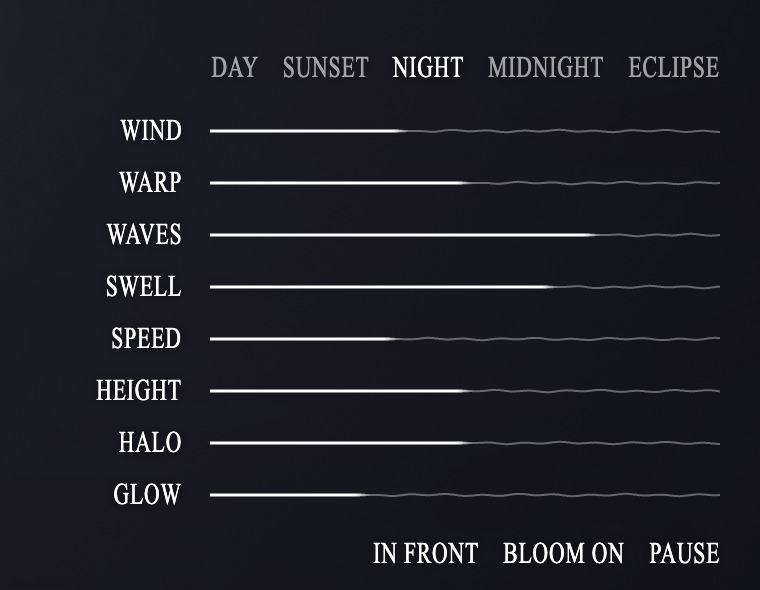
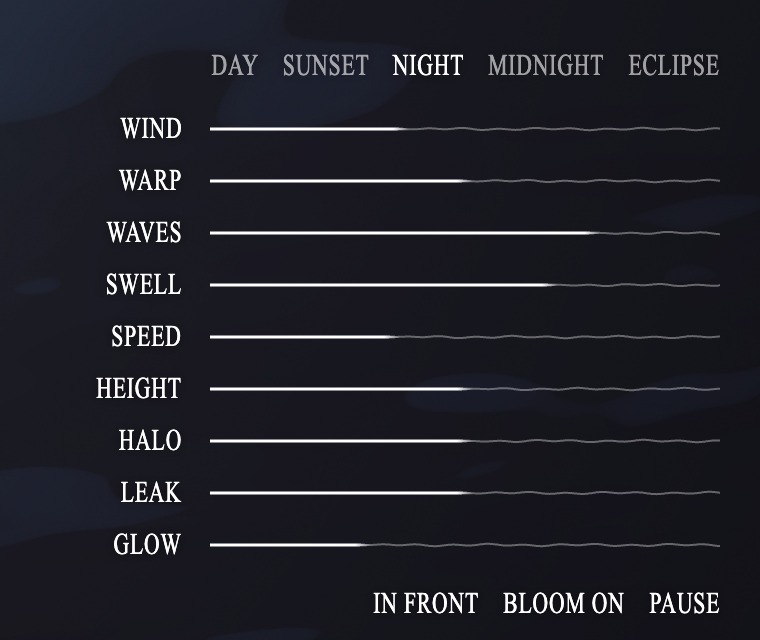
Leak: scrambled light seeping into the dark water
In the dark water each ray is bent again through an exaggerated, jittered
surface; rays that still get out carry warped fragments of sky, glow and moon,
fading with depth. New Leak control (default 0.5).

diff --git a/public/games/flymetothemoon/index.html b/public/games/flymetothemoon/index.html
@@ -66,6 +66,7 @@
   <label for="speed"><span class="squeeze">Speed</span></label><div class="line"><canvas aria-hidden="true"></canvas><input id="speed" type="range" min="0.1" max="1.5" step="0.01" value="0.6"></div>
   <label for="height"><span class="squeeze">Height</span></label><div class="line"><canvas aria-hidden="true"></canvas><input id="height" type="range" min="-1" max="1" step="0.01" value="0"></div>
   <label for="halo"><span class="squeeze">Halo</span></label><div class="line"><canvas aria-hidden="true"></canvas><input id="halo" type="range" min="0" max="2" step="0.01" value="1"></div>
+  <label for="leak"><span class="squeeze">Leak</span></label><div class="line"><canvas aria-hidden="true"></canvas><input id="leak" type="range" min="0" max="1" step="0.01" value="0.5"></div>
   <label for="glow"><span class="squeeze">Glow</span></label><div class="line"><canvas aria-hidden="true"></canvas><input id="glow" type="range" min="0" max="2" step="0.01" value="0.6"></div>
   <div class="buttons">
     <button id="moonpos" type="button" aria-pressed="false" aria-label="Moon in front of or behind the water"><span class="squeeze">In front</span></button>
@@ -110,7 +111,8 @@
     uMoonR: { value: 100 },                      // the moon's radius there, device pixels (the scene's unit)
     uMoonC: { value: new THREE.Vector2(0, 0) },  // where the moon actually is right now
     uMoonRC: { value: 100 },                     // and its actual radius
-    uAbove: { value: 0 },                        // 0: moon in the water, 1: moon in the sky above it
+    uAbove: { value: 0 },
+    uLeak: { value: 0.5 },                         // light leaking, scrambled, into the dark water                        // 0: moon in the water, 1: moon in the sky above it
     uMoonTex: { value: null },                   // the moon rendered off-screen, for viewing through the surface
     uSim: { value: null },                       // simulated height field
     uSwell: { value: 0.8 },
@@ -223,7 +225,7 @@
   // =====================================================================================
   const CAM = { FS: 0.25, ALPHA: 0.648, DEPTH: 3.0, TILE: 20.0 };
   const WATER = `
-      uniform float uHaloGain, uMoonRC, uAbove;
+      uniform float uHaloGain, uMoonRC, uAbove, uLeak;
       uniform vec2 uMoonC;
       uniform sampler2D uMoonTex;
       vec3 gN = vec3(0.0, 1.0, 0.0); float gT = 0.0;   // surface normal and transmission at the last lookUp
@@ -361,11 +363,37 @@
         float n = vnoise(q + vec2(uTime*0.03, -uTime*0.02)) + 0.5*vnoise(q*2.1 - vec2(uTime*0.02, 0.0));
         return c + vec3(0.006, 0.012, 0.018) * (n - 0.75);
       }
+      // Light leaking into the dark water: the ray is bent again through an exaggerated surface
+      // (real slopes amplified and jittered fast), so the few rays that still get out pick up
+      // badly scrambled fragments of sky, moon glow and moon.
+      vec3 leakLight(vec3 d, vec2 xz, vec2 slope){
+        vec2 jit = vec2(vnoise(xz*3.0 + vec2(uTime*0.4, 0.0)), vnoise(xz*3.0 + vec2(5.2, -uTime*0.35))) - 0.5;
+        vec3 N = normalize(vec3(-(slope.x*6.0 + jit.x*0.9), 1.0, -(slope.y*6.0 + jit.y*0.9)));
+        vec3 r = refract(d, -N, 1.333);
+        if (dot(r, r) < 1e-6) return vec3(0.0);
+        float cosT = max(dot(r, N), 0.0);
+        float T = 1.0 - (0.0204 + 0.9796*pow(1.0 - cosT, 5.0));
+        vec3 sky = mix(uSkyLow, uSkyHigh, smoothstep(0.05, 0.9, clamp(r.y, 0.0, 1.0)));
+        float c = dot(r, SKY_MOON);
+        sky += uGlowA*exp((c - 1.0)/0.03) + uGlowB*exp((c - 1.0)/0.006);
+        sky += uImage * smoothstep(MOON_COS - 0.0012, MOON_COS + 0.0012, c);
+        return sky * T;
+      }
       vec4 lookUp(vec2 s){
         float u = 0.506 + s.x*0.2375;                      // horizontal position across the view, for the palette
         vec3 d = viewRay(s);
         gT = 0.0;
-        if (d.y < 0.03) return vec4(underwater(d, u), 0.0); // looking sideways: just water
+        if (d.y < 0.03) {                                  // looking sideways: just water...
+          vec3 w = underwater(d, u);
+          if (uLeak > 0.001) {
+            // ...with the leak carrying on faintly into the depths, as if seen far off and fading
+            float below = 0.03 - d.y;
+            vec2 xzF = d.xz*(DEPTH/0.03) + vec2(0.0, below*40.0);
+            vec3 slF = surfaceSlope(xzF, 8.0);
+            w += leakLight(normalize(vec3(d.x, 0.06, d.z)), xzF, slF.xy) * 0.4*uLeak * exp(-below*7.0);
+          }
+          return vec4(w, 0.0);
+        }
         float dist = DEPTH / d.y;
         vec2 xz = d.xz * dist;
         vec3 sl = surfaceSlope(xz, dist);
@@ -373,7 +401,7 @@
         gN = N;
         vec3 r = refract(d, -N, 1.333);
         vec3 deepR = underwater(reflect(d, -N), u);         // the surface's mirror of the water below
-        if (dot(r, r) < 1e-6) return vec4(deepR, 0.0);     // total internal reflection
+        if (dot(r, r) < 1e-6) return vec4(deepR + leakLight(d, xz, sl.xy)*0.45*uLeak, 0.0);   // total internal reflection, plus the leak
         float cosT = max(dot(r, N), 0.0);
         float F = 0.0204 + 0.9796*pow(1.0 - cosT, 5.0);    // Fresnel (Schlick, from the air side)
         float T = 1.0 - F;
@@ -680,6 +708,7 @@
   document.getElementById('swell').addEventListener('input', e => uniforms.uSwell.value = parseFloat(e.target.value));
   document.getElementById('speed').addEventListener('input', e => waveSpeed = parseFloat(e.target.value));
   document.getElementById('height').addEventListener('input', e => moonHeight = parseFloat(e.target.value));
+  document.getElementById('leak').addEventListener('input', e => uniforms.uLeak.value = parseFloat(e.target.value));
   document.getElementById('halo').addEventListener('input', e => uniforms.uHaloGain.value = parseFloat(e.target.value));
   document.getElementById('glow').addEventListener('input', e => glowU.value = parseFloat(e.target.value));
   let bloomOn = true;
@@ -917,7 +946,7 @@
 
   // Settings from the address, e.g. ?sky=sunset&waves=1.2&swell=1.2&speed=0.3&bloom=0&turn=90&ui=0
   const q = new URLSearchParams(location.search);
-  for (const [key, id] of [['wind','wind'], ['warp','warp'], ['waves','chop'], ['swell','swell'], ['speed','speed'], ['height','height'], ['halo','halo'], ['glow','glow']]) {
+  for (const [key, id] of [['wind','wind'], ['warp','warp'], ['waves','chop'], ['swell','swell'], ['speed','speed'], ['height','height'], ['halo','halo'], ['leak','leak'], ['glow','glow']]) {
     if (q.has(key)) { const el = document.getElementById(id); el.value = q.get(key); el.dispatchEvent(new Event('input')); }
   }
   if (q.has('sky')) {

diff --git a/README.md b/README.md
@@ -30,6 +30,10 @@ The dark water below and the surface's mirror of it share one colour field, warm
 
 ![Broad waves alone, rolling across the surface](docs/screenshots/04-broad-waves.jpg)
 
+Some light also leaks into the dark water, badly scrambled. There, each ray is bent again through an exaggerated version of the surface (its real slopes amplified about six times, plus a fast jitter), so the few rays that still get out pick up warped fragments of sky, moon glow and moon. They drift through the dark water below the window's edge and fade out with depth. The **Leak** control sets how much gets through.
+
+![Light leaking into the dark water, Leak at its maximum](docs/screenshots/21-leak.jpg)
+
 With the warp turned off, the ripples settle into a more even, cell-like pattern:
 
 ![The warp turned off](docs/screenshots/05-no-warp.jpg)
@@ -110,6 +114,7 @@ The controls sit in the lower right: the sky presets along the top, then plain w
 | Speed | How fast all the water moves (also slows the simulation) | 0.1 – 1.5 | 0.6 |
 | Height | Raises or lowers the moon, in the water or in the sky | −1 – 1 | 0 |
 | Halo | Strength of the glow around the big moon (on top of what the sky sets) | 0 – 2 | 1 |
+| Leak | How much scrambled light leaks into the dark water | 0 – 1 | 0.5 |
 | Glow | Strength of the bloom | 0 – 2 | 0.6 |
 | In front / Behind | Moon in the water, or up in the sky behind the surface | | In front |
 | Bloom on/off | Turns the bloom off entirely | | on |
@@ -130,6 +135,7 @@ Every control can be set from the address, which is how the screenshots here wer
 ?moon=behind                      start with the moon behind the water
 ?height=1                         raise the moon (−1 lowers it)
 ?halo=0                           no glow around the moon
+?leak=0                           no light leaking into the dark water
 ?bloom=0                          bloom off
 ?turn=140                         turn the moon 140° to start
 ?ui=0                             hide the controls
